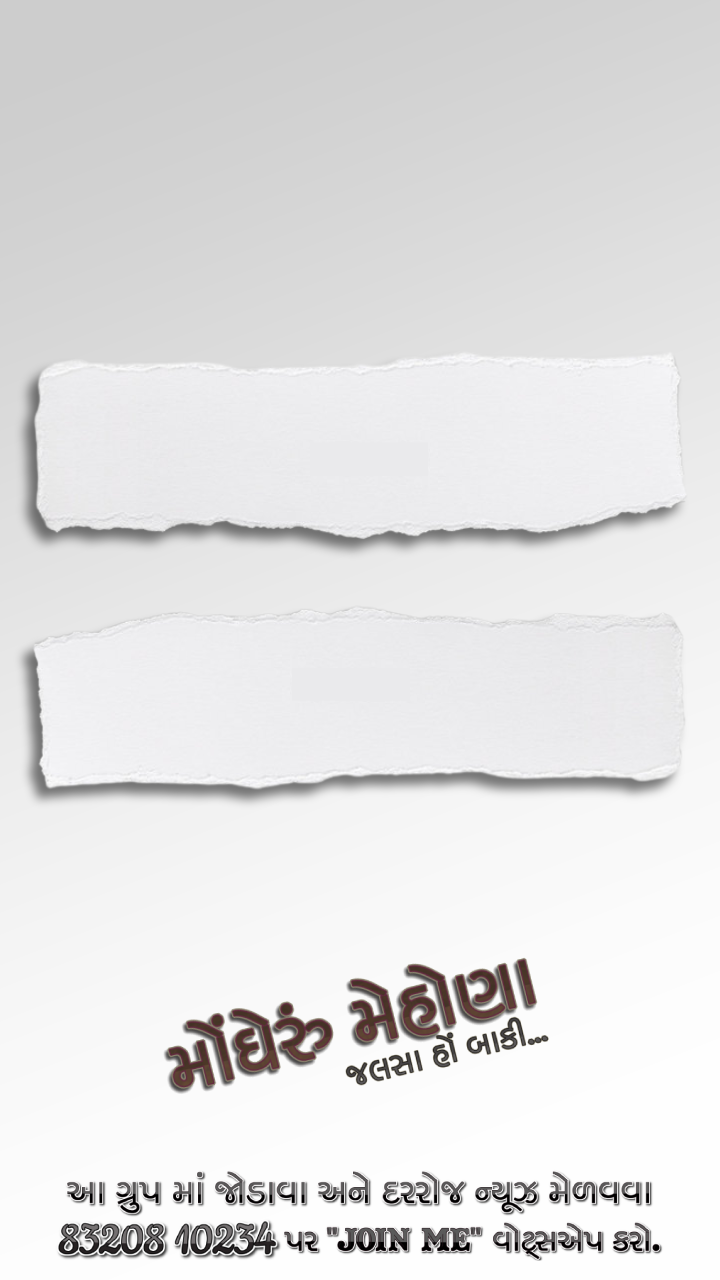
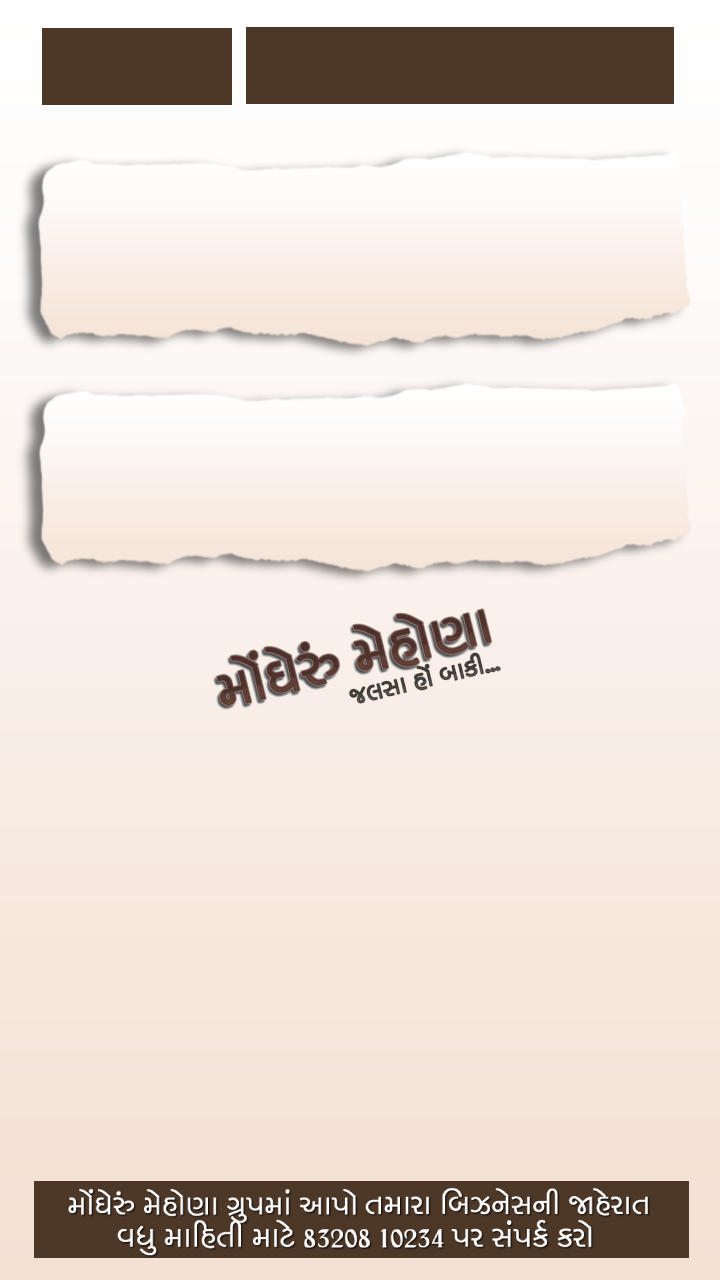
New marketing campaing

diff --git a/index.html b/index.html
@@ -24,13 +24,13 @@
     <a href="./mobile.html" class="swith_button"> Mobile </a>
     <button href="#" class="single swith_button" onclick="singleImage('single')">1</button>
     <button href="#" class="double swith_button" onclick="singleImage('double')">2</button>
-    <button href="#" class="tripal swith_button" onclick="singleImage('tripal')">3</button>
-    <button href="#" class="marketing swith_button" onclick="singleImage('marketing')">Marketing</button>
-    <button href="#" class="mrng swith_button" onclick="setHeader('Morning Updates', 160)">Morning</button>
-    <button href="#" class="noon swith_button" onclick="setHeader('Noon Updates', 190)">Noon</button>
-    <button href="#" class="evening swith_button" onclick="setHeader('Evening Updates', 160)">Evening</button>
-    <button href="#" class="breaking swith_button" onclick="setHeader('Breaking News', 190)">Breaking</button>
-    <button href="#" class="header swith_button" onclick="setHeader('', 190)">Header</button>
+    <button href="#" class="tripal swith_button" onclick="singleImage('triple_logo')">3</button>
+    <button href="#" class="header swith_button" onclick="singleImage('triple_logo')">Marketing</button>
+    <button href="#" class="mrng swith_button" onclick="setHeader('Morning Updates', 285)">Morning</button>
+    <button href="#" class="noon swith_button" onclick="setHeader('Noon Updates', 310)">Noon</button>
+    <button href="#" class="evening swith_button" onclick="setHeader('Evening Updates', 290)">Evening</button>
+    <button href="#" class="breaking swith_button" onclick="setHeader('Breaking News', 310)">Breaking</button>
+    <!-- <button href="#" class="header swith_button" onclick="setHeader('', 310)">Header</button> -->
     <script
       type="text/javascript"
       src="./dist/fabric-v4.2.0.js"
@@ -55,20 +55,21 @@
       var imageEditor = new tui.ImageEditor('#tui-image-editor-container', {
         includeUI: {
           loadImage: {
-            path: 'img/tripal.png?unique='+Date.now(),
+            path: 'img/triple_logo.png?unique='+Date.now(),
             name: 'News',
           },
           // menu: ['text', 'mask'],
           theme: blackTheme,
           initMenu: 'text',
           menuBarPosition: 'left',
-          
         },
         cssMaxWidth: 700,
         cssMaxHeight: 500,
         usageStatistics: false,
       });
       setDateOnLayout();
+      setTimeonLayout();
+      
       
       function singleImage(name) {
         var url = "http://editor.compupandit.in";
@@ -80,6 +81,7 @@
           return Promise.reject(message);
         });
         setDateOnLayout();
+        setTimeonLayout();
       }
 
       function getDate() {
@@ -95,19 +97,49 @@
         hours = hours % 12;
         hours = hours ? hours : 12; // the hour '0' should be '12'
         minutes = minutes < 10 ? '0'+minutes : minutes;
-        return day + ' ' + month  + ',' + year + ' ' + hours + ':' + minutes + ' ' + ampm;
+        // return day + ' ' + month  + ',' + year + ' ' + hours + ':' + minutes + ' ' + ampm;
+        return day + ' ' + month  + ', ' + year;
+      }
+      function getTime() {
+        const dateObj = new Date();
+        var hours = dateObj.getHours();
+        var minutes = dateObj.getMinutes();
+        var ampm = hours >= 12 ? 'PM' : 'AM';
+        hours = hours % 12;
+        hours = hours ? hours : 12; // the hour '0' should be '12'
+        minutes = minutes < 10 ? '0'+minutes : minutes;
+        return hours + ':' + minutes + ' ' + ampm;
       }
 
       function setDateOnLayout() {
         setTimeout(() => { imageEditor.addText(getDate(), {
           styles: {
-            fill: '#545454',
-            fontSize: 28,
+            fill: '#d2d2d2',
+            fontSize: 26,
+            fontWeight: 'bold',
             fontFamily: 'Noto Sans'
           },
+          autofocus: false,
           position: {
-              x: 390,
-              y: 20
+              x: 55,
+              y: 40
+          }
+      }).then(objectProps => {
+          console.log(objectProps.id);
+      });}, 100);
+      }
+      function setTimeonLayout() {
+        setTimeout(() => { imageEditor.addText(getTime(), {
+          styles: {
+            fill: '#d2d2d2',
+            fontSize: 26,
+            fontWeight: 'bold',
+            fontFamily: 'Noto Sans',
+          },
+          autofocus: false,
+          position: {
+              x: 75,
+              y: 70
           }
       }).then(objectProps => {
           console.log(objectProps.id);
@@ -117,14 +149,15 @@
       function setHeader(title, x) {
         setTimeout(() => { imageEditor.addText(title, {
           styles: {
-            fill: '#2a2a2a',
-            fontSize: 50,
+            fill: '#d2d2d2',
+            fontSize: 40,
             fontWeight: 'bold',
             fontFamily: 'Noto Sans'
           },
+          autofocus: false,
           position: {
               x: x,
-              y: 110
+              y: 43
           }
       }).then(objectProps => {
           console.log(objectProps.id);
